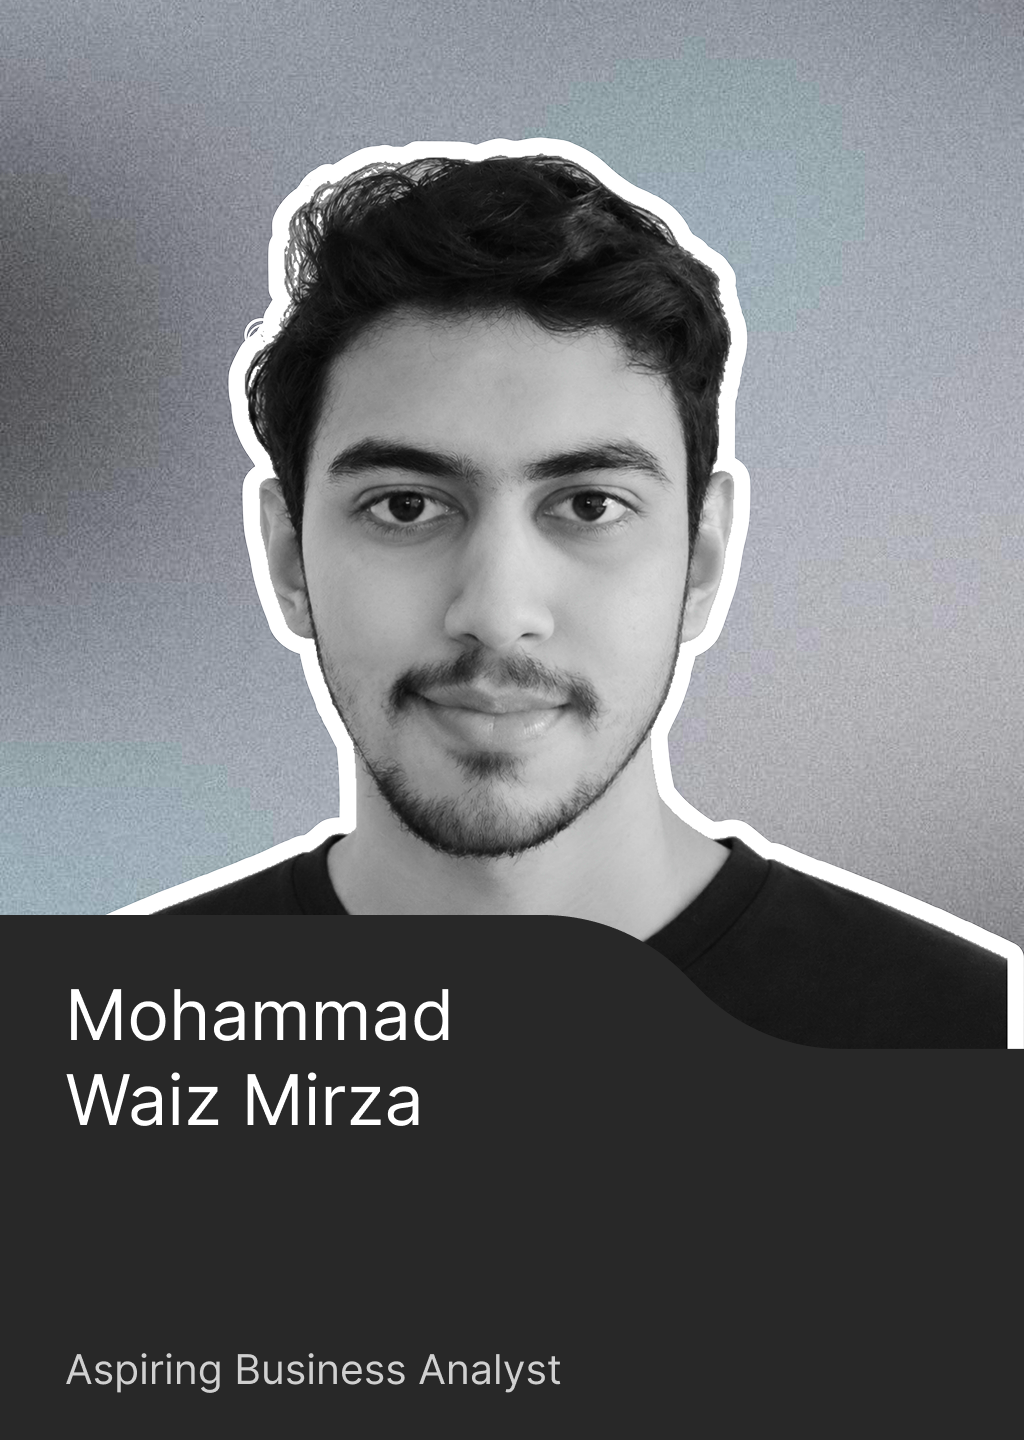
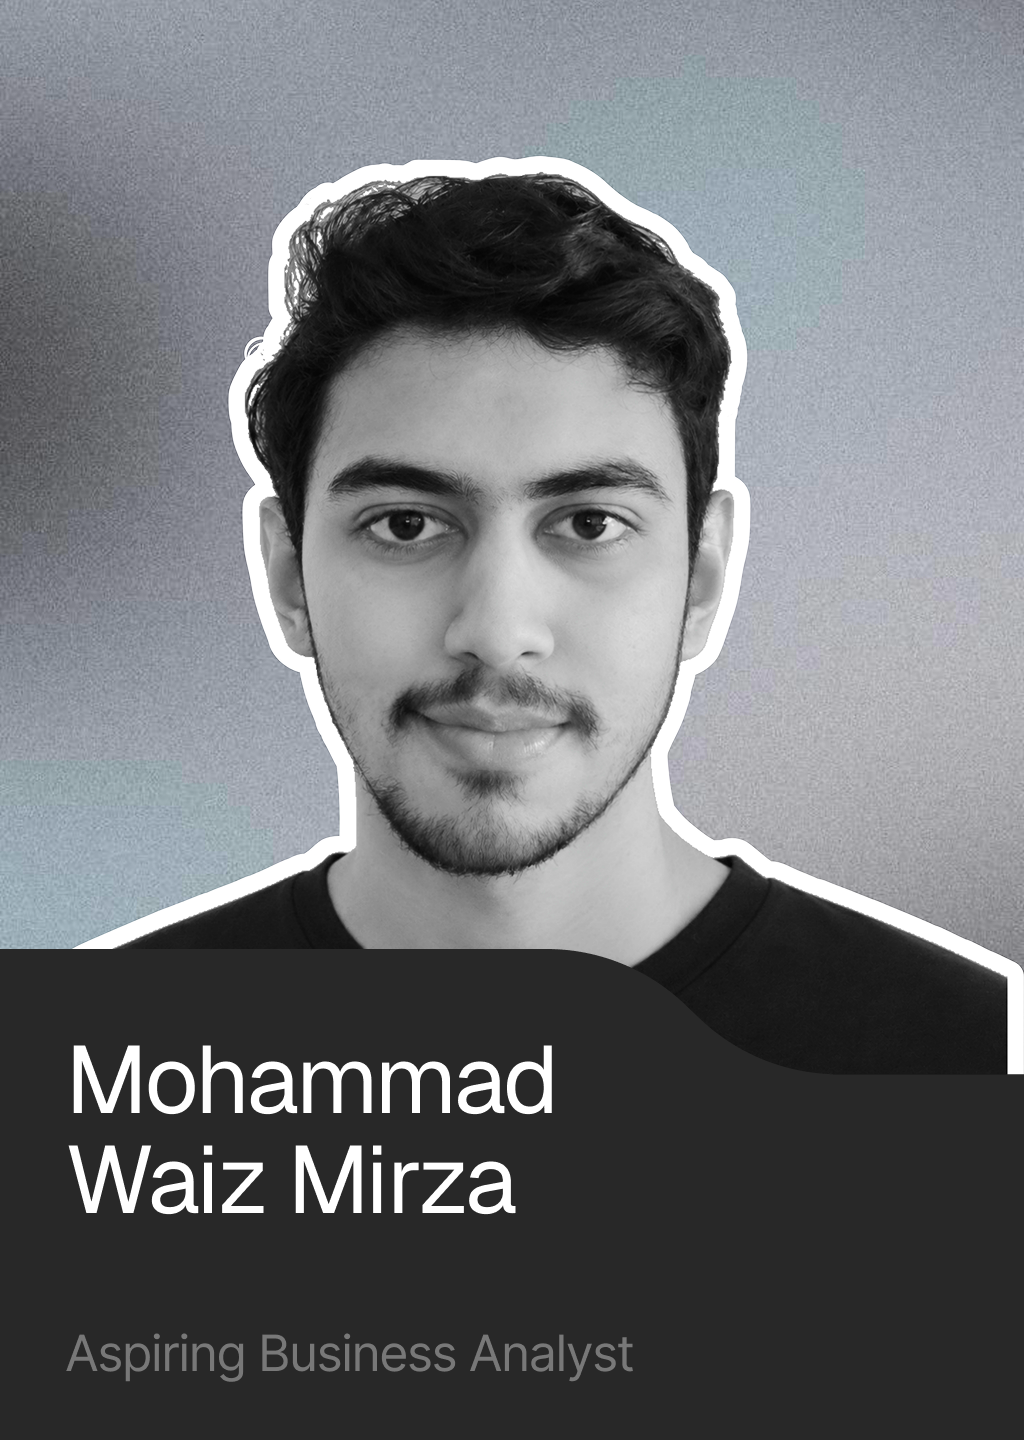
feat: update lanyard badge to officialcardimage V2

diff --git a/src/App.jsx b/src/App.jsx
@@ -48,8 +48,8 @@ function HomePage() {
       <div className="absolute inset-0 z-20 pointer-events-none">
         <Suspense fallback={null}>
           <Lanyard
-            frontImage="/officialcardimage.png"
-            backImage="/officialcardimage.png"
+            frontImage="/officialcardimage-v2.png"
+            backImage="/officialcardimage-v2.png"
             cardColor="#242424"
             finish="matte"
             metal="silver"
